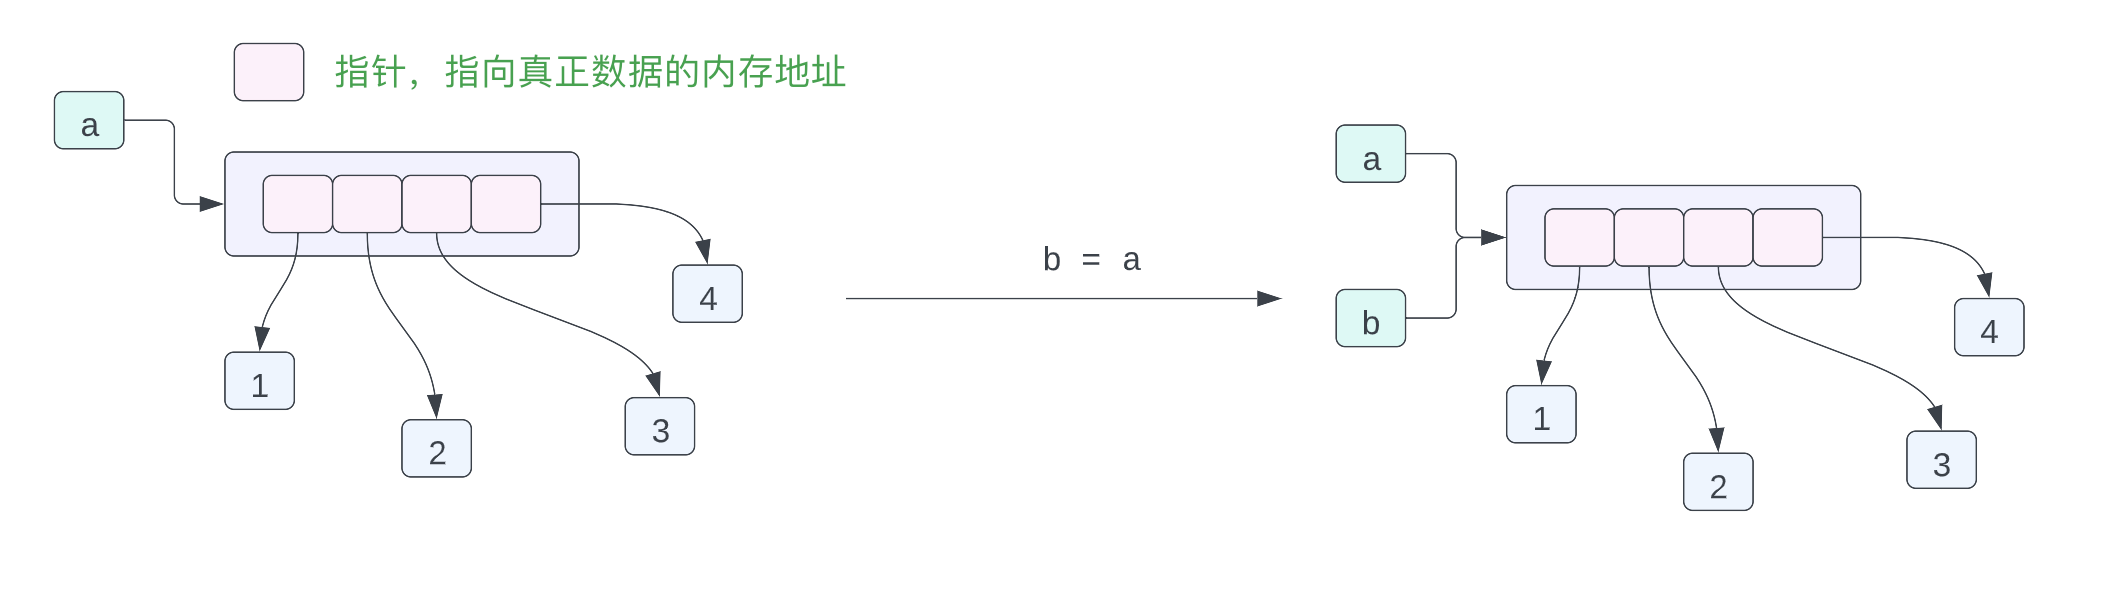
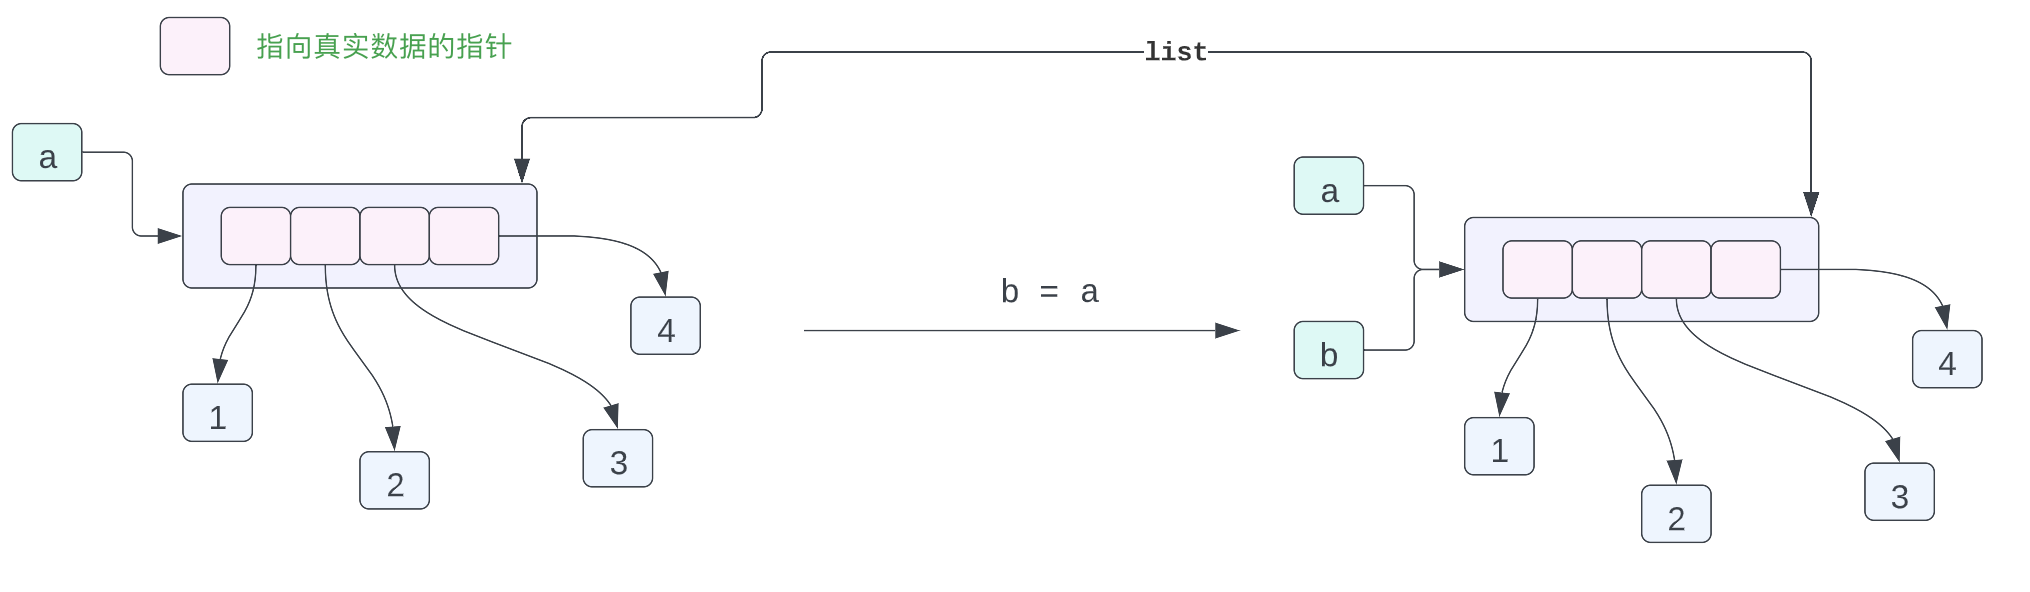
update python shallow and deep copy

diff --git a/pl/python/misc/01copy.md b/pl/python/misc/01copy.md
@@ -75,7 +75,7 @@ print(f"{id(a) = } \t|\t {id(b) = }")
 
 ![01](../../../images/python/04.png)
 
-
+变量 a 指向内存当中的列表 `[1, 2, 3, 4]`，列表当中有 4 个数据，这四个数据都是指针，而这四个指针指向内存当中 1，2，3，4 这四个数据。
 
 ## 撕开 Python 对象的神秘面纱
 
